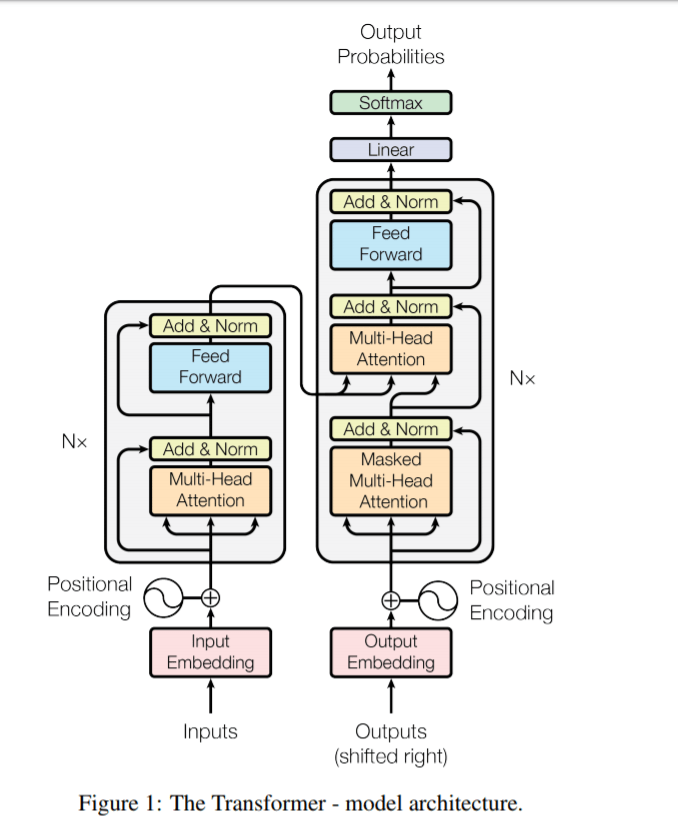
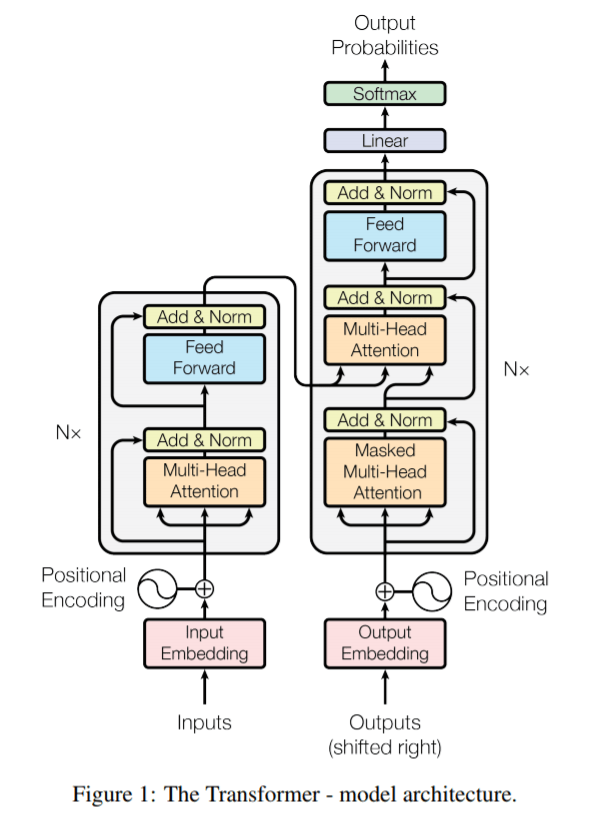
transformer image crop

Changed region(s): [[0.0624, 0.0, 0.9048, 1.0]]

diff --git a/artificial_curiosity/GPT_architecture.html b/artificial_curiosity/GPT_architecture.html
@@ -52,7 +52,7 @@ h1 {letter-spacing: 6px}
     As a starting point, the original transformer and GPT papers provide us with the following diagrams:
   </p>
   <img src="./img/GPT_architecture/GPT1.png" style="width:30%" title="">
-  <img src="./img/GPT_architecture/Transformer.png" style="width:30%" title="">
+  <img src="./img/GPT_architecture/Transformer.png" style="width:50%" title="">
   <p style="font-size:130%;">
     Not bad as far as diagrams go, but if you're like me, not enough to understand the full picture. So let's dig in!
   </p>
